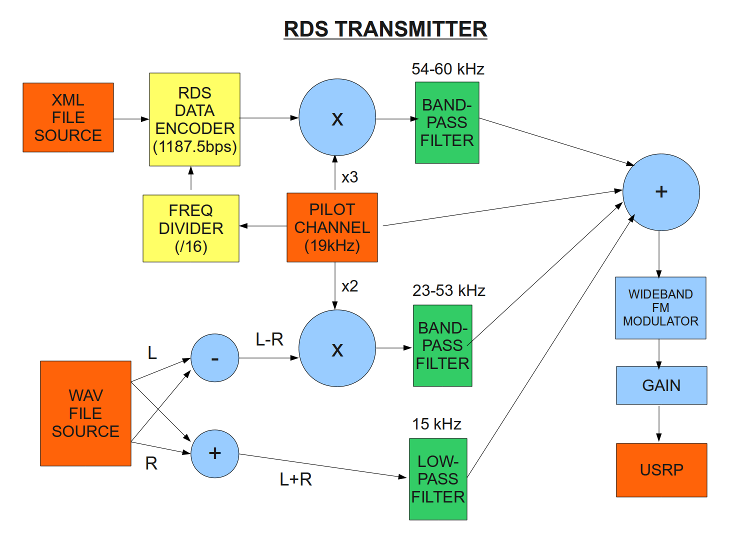
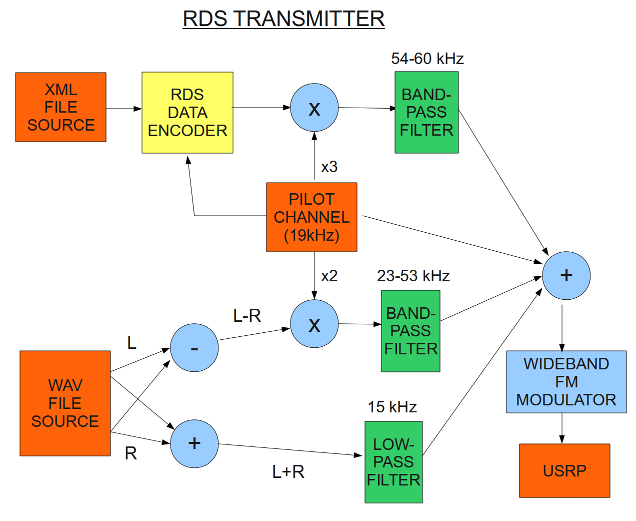
- matched the filters in tx with those in rx - removed freq_divider from tx - updated the .png flowgraphs
--HG--
extra : convert_revision : svn%3A948f8045-528a-dd11-95b9-00e08143843c/projects/radio_data_system/trunk%40421

diff --git a/src/python/usrp_rds_tx.py b/src/python/usrp_rds_tx.py
@@ -77,8 +77,8 @@ class rds_tx_block(stdgui2.std_top_block):
 			1,				# gain
 			usrp_rate,		# sampling rate
 			15e3,			# passband cutoff
-			2e3,			# transition width
-			gr.firdes.WIN_HANN)
+			1e3,			# transition width
+			gr.firdes.WIN_HAMMING)
 		self.audio_lpr_filter = gr.fir_filter_fff (1, audio_lpr_taps)
 		self.connect (self.audio_lpr, self.audio_lpr_filter)
 
@@ -89,49 +89,26 @@ class rds_tx_block(stdgui2.std_top_block):
 			19e3,				# frequency
 			5e-2)				# amplitude
 
-		# create the L-R signal carrier at 38 kHz, high-pass to remove 0Hz tone
-		self.stereo_carrier = gr.multiply_ff()
-		self.connect (self.pilot, (self.stereo_carrier, 0))
-		self.connect (self.pilot, (self.stereo_carrier, 1))
-		stereo_carrier_taps = gr.firdes.high_pass(
-			1,				# gain
-			usrp_rate,		# sampling rate
-			1e4,			# cutoff freq
-			2e3,			# transition width
-			gr.firdes.WIN_HANN)
-		self.stereo_carrier_filter = gr.fir_filter_fff(1, stereo_carrier_taps)
-		self.connect (self.stereo_carrier, self.stereo_carrier_filter)
-
-		# upconvert L-R to 23-53 kHz and band-pass
+		# upconvert L-R to 38 kHz and band-pass
 		self.mix_stereo = gr.multiply_ff()
 		audio_lmr_taps = gr.firdes.band_pass(
 			2e2,			# gain
 			usrp_rate,		# sampling rate
-			23e3,			# low cutoff
-			53e3,			# high cutoff
-			2e3,			# transition width
-			gr.firdes.WIN_HANN)
+			38e3-15e3,		# low cutoff
+			38e3+15e3,		# high cutoff
+			1e3,			# transition width
+			gr.firdes.WIN_HAMMING)
 		self.audio_lmr_filter = gr.fir_filter_fff (1, audio_lmr_taps)
 		self.connect (self.audio_lmr, (self.mix_stereo, 0))
-		self.connect (self.stereo_carrier_filter, (self.mix_stereo, 1))
+		self.connect (self.pilot, (self.mix_stereo, 1))
+		self.connect (self.pilot, (self.mix_stereo, 2))
 		self.connect (self.mix_stereo, self.audio_lmr_filter)
 
-		# rds_encoder
-		self.freq_div = rds.freq_divider(16)
+		# create NRZ diff-encoded RDS signal
+		# mix with 57kHz carrier (equivalent to BPSK)
 		self.rds_enc = rds.data_encoder('rds_data.xml')
-		rds_bb_filter_taps = gr.firdes.band_pass(
-			1e2,			# gain
-			usrp_rate,		# sampling rate
-			1e3,			# low cutoff
-			2e3,			# high cutoff
-			3e2,			# transition width
-			gr.firdes.WIN_HANN)
-		self.rds_bb_filter = gr.fir_filter_fff (1, rds_bb_filter_taps)
-		self.connect (self.pilot, self.freq_div, self.rds_enc, self.rds_bb_filter)
-
-		# mutliply RDS signal with 57kHz carrier (equivalent to BPSK)
 		self.bpsk_mod = gr.multiply_ff()
-		self.connect (self.rds_bb_filter, (self.bpsk_mod, 0))
+		self.connect (self.pilot, self.rds_enc, (self.bpsk_mod, 0))
 		self.connect (self.pilot, (self.bpsk_mod, 1))
 		self.connect (self.pilot, (self.bpsk_mod, 2))
 		self.connect (self.pilot, (self.bpsk_mod, 3))
@@ -140,10 +117,10 @@ class rds_tx_block(stdgui2.std_top_block):
 		rds_filter_taps = gr.firdes.band_pass(
 			50,				# gain
 			usrp_rate,		# sampling rate
-			55e3,			# low cutoff
-			59e3,			# high cutoff
-			2e3,			# transition width
-			gr.firdes.WIN_HANN)
+			57e3-3e3,		# low cutoff
+			57e3+3e3,		# high cutoff
+			1e3,			# transition width
+			gr.firdes.WIN_HAMMING)
 		self.rds_filter = gr.fir_filter_fff (1, rds_filter_taps)
 		self.connect (self.bpsk_mod, self.rds_filter)
 

diff --git a/src/lib/gr_rds_data_encoder.cc b/src/lib/gr_rds_data_encoder.cc
@@ -40,6 +40,14 @@
 #include "config.h"
 #endif
 
+//#define DEBUG
+
+#ifdef DEBUG
+#define DBG(x) x
+#else
+#define DBG(x)
+#endif
+
 #include <gr_rds_data_encoder.h>
 #include <gr_io_signature.h>
 #include <math.h>
@@ -312,17 +320,20 @@ int gr_rds_data_encoder::work (int noutput_items,
 	const float *in = (const float *) input_items[0];
 	float *out = (float *) output_items[0];
 	int sign_current=0;
+	static int symlen=0;	// symbol length
 	
 	// initialize output buffer
 	d_current_out=(diff_enc_buffer[d_buffer_bit_counter]?1:-1);
 
 	for(int i=0; i<noutput_items; i++){
+		symlen++;
 		sign_current=(in[i]>0?1:-1);
 		if(sign_current!=d_sign_last){
 			if(++d_zero_cross==32){		// push next bit
-				d_zero_cross=0;
 				if(++d_buffer_bit_counter>103) d_buffer_bit_counter=0;
 				d_current_out=(diff_enc_buffer[d_buffer_bit_counter]?1:-1);	// NRZ
+				DBG(printf("%f (len=%i)", d_current_out, symlen);)
+				d_zero_cross=symlen=0;
 			}
 		}
 		out[i]=d_current_out;
